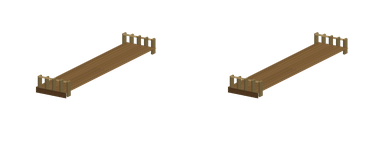
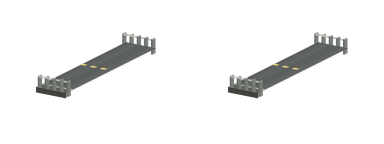
Align wood and concrete bridge art with native actor names

Changed region(s): [[0.5938, 0.2222, 0.9062, 0.6944], [0.0938, 0.2222, 0.4062, 0.6944]]

diff --git a/tools/standalone-bridges.py b/tools/standalone-bridges.py
@@ -111,12 +111,12 @@ def main():
             for dead in [False, True]:
                 name = f'{material}_{axis}' + ('_d' if dead else '')
                 seqs = ['idle','aramp','bramp','abramp','editor'] if dead else ['idle','idle2','idle3','idle4','adead','bdead','abdead']
-                frames = [span(material == 'lobrdb', axis == 'b',
+                frames = [span(material == 'lobrdg', axis == 'b',
                     ('both' if dead else 'a' if seq == 'adead' else 'b' if seq == 'bdead' else 'both' if seq == 'abdead' else ''), i)
                     for i, seq in enumerate(seqs)]
                 write(name, frames, seqs, overrides, records)
         for direction in ['ne','nw','se','sw']:
-            write(f'{material}_r_{direction}', [span(material == 'lobrdb', direction in ['nw','se'], ramp='a' if direction in ['ne','nw'] else 'b')]*2,
+            write(f'{material}_r_{direction}', [span(material == 'lobrdg', direction in ['nw','se'], ramp='a' if direction in ['ne','nw'] else 'b')]*2,
                   ['idle','damaged-idle'], overrides, records)
     for name in ['bridge1','bridge2','bridgb1','bridgb2']:
         write(name, [span(name.startswith('bridgb'), name.endswith('2'), high=True)], ['idle'], overrides, records)
